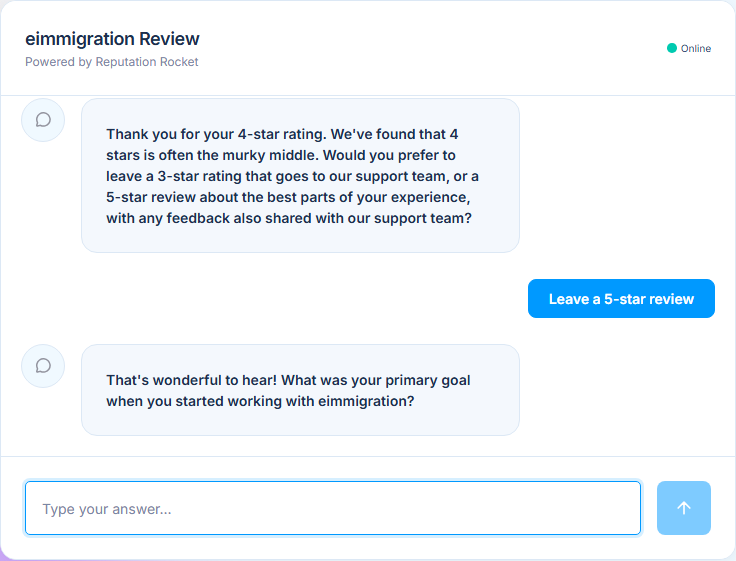
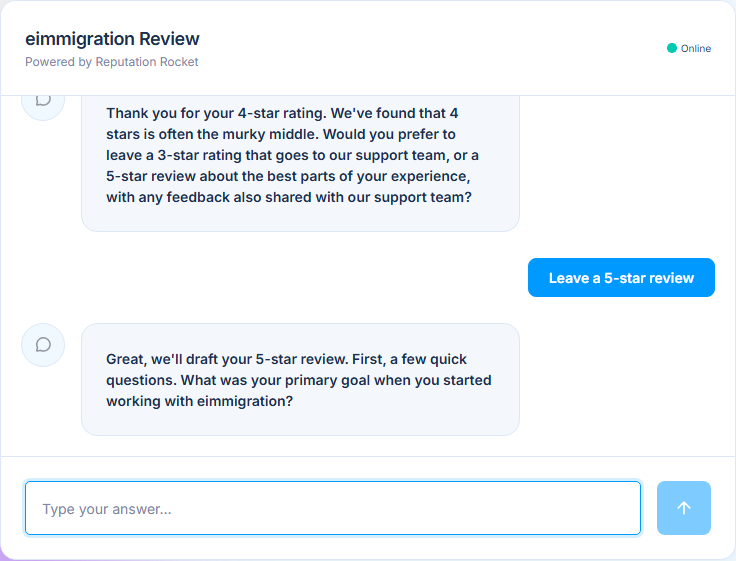
Jonathan's feedback: say we'll draft the review after 4 -> 5; no improve question after a direct 5
Jonathan, 9/30:
1. After choosing 5 on the 4-star prompt, tell the customer we'll draft
   their review. The first question now opens with "Great, we'll draft your
   5-star review. First, a few quick questions." in place of the agent's
   "That's wonderful to hear!", which read as fake for someone who just
   said 4.
2/3. Someone who tapped 5 and just praised the team was then asked
   "where could we improve?", which invites criticism. On a direct 5 that
   question is no longer shown; the page answers "no" unseen, so the
   drafts finish exactly as a "no" answer does today. Only customers who
   came through the 4-star prompt get the (Tonya-worded) feedback step.

diff --git a/app.js b/app.js
@@ -1511,6 +1511,35 @@ function isMurkyFiveSession() {
   return !!state && state.chose === 5;
 }
 
+// Jonathan, 9/30: after a 4 -> 5 choice, say we'll draft their review
+// instead of the agent's "That's wonderful to hear!" (which reads as fake
+// for someone who just told us 4).
+const MURKY_REVIEW_INTRO = "Great, we'll draft your 5-star review. First, a few quick questions.";
+
+function firstCustomerAnswer() {
+  const first = chatHistory.find((m) => m && m.role === 'user');
+  return first ? String(first.content || '') : '';
+}
+
+function lastCustomerAnswer() {
+  for (let i = chatHistory.length - 1; i >= 0; i--) {
+    if (chatHistory[i] && chatHistory[i].role === 'user') return String(chatHistory[i].content || '');
+  }
+  return '';
+}
+
+/** Tapped 5 on the star buttons (not via the 4-star choice). */
+function isDirectFiveSession() {
+  return isRatingButtonsEnabled() && !normalizeMurkyMiddle(murkyMiddle) && firstCustomerAnswer() === '5 stars';
+}
+
+/** Drop the agent's leading acknowledgment; keep from the first question on. */
+function questionPart(text) {
+  const sentences = String(text || '').replace(/([.!?])\s+/g, '$1\u0000').split('\u0000');
+  const idx = sentences.findIndex((part) => part.includes('?'));
+  return idx >= 0 ? sentences.slice(idx).join(' ').trim() : String(text || '').trim();
+}
+
 function ratingStarIcon() {
   return '<svg class="rating-choice-star" viewBox="0 0 24 24" width="16" height="16" aria-hidden="true"><polygon fill="currentColor" points="12 2 15.09 8.26 22 9.27 17 14.14 18.18 21.02 12 17.77 5.82 21.02 7 14.14 2 9.27 8.91 8.26 12 2"/></svg>';
 }
@@ -1728,6 +1757,7 @@ function syncChatComposerState() {
 
 async function sendMessage(text, isHidden = false) {
   if (isWaitingForAgent) return;
+  let autoAnswer = null;
 
   if (!isHidden) {
     addChatBubble('user', text);
@@ -1833,10 +1863,33 @@ async function sendMessage(text, isHidden = false) {
       && isImprovementQuestion(displayText);
     if (enterSupportFeedback) displayText = MURKY_IMPROVE_QUESTION;
 
-    showTypingIndicator(false);
-    addChatBubble('agent', displayText);
-    chatHistory.push({ role: 'agent', content: displayText });
-    agentMessageCount++;
+    // First question after choosing 5 on the 4-star prompt.
+    if (
+      !draftsParsed
+      && !negativeFlagData
+      && isMurkyFiveSession()
+      && lastCustomerAnswer() === MURKY_CHOICE_LABELS[5]
+      && displayText.includes('?')
+    ) {
+      displayText = `${MURKY_REVIEW_INTRO} ${questionPart(displayText)}`;
+    }
+
+    // Jonathan, 9/30: someone who tapped 5 and just praised the team should
+    // not be asked "where could we improve?". Answer it for them, unseen, so
+    // the review flow finishes exactly as a "no" answer does today.
+    const skipImprovementQuestion = !draftsParsed
+      && !negativeFlagData
+      && isDirectFiveSession()
+      && isImprovementQuestion(displayText);
+
+    if (skipImprovementQuestion) {
+      autoAnswer = 'no';
+    } else {
+      showTypingIndicator(false);
+      addChatBubble('agent', displayText);
+      chatHistory.push({ role: 'agent', content: displayText });
+      agentMessageCount++;
+    }
 
     // Safety net so 4 -> 5 feedback is never lost: if the drafts arrive and
     // the support question was never recognized (agent rephrased it), the
@@ -1874,7 +1927,7 @@ async function sendMessage(text, isHidden = false) {
     } else if (enterSupportFeedback) {
       chatChoiceMode = 'murky-feedback';
       renderChatChoices();
-    } else {
+    } else if (!skipImprovementQuestion) {
       maybeShowRatingButtons(displayText);
     }
 
@@ -1893,6 +1946,7 @@ async function sendMessage(text, isHidden = false) {
     }
     saveSession();
   }
+  if (autoAnswer) sendMessage(autoAnswer, true);
 }
 
 function handleChatSend() {
